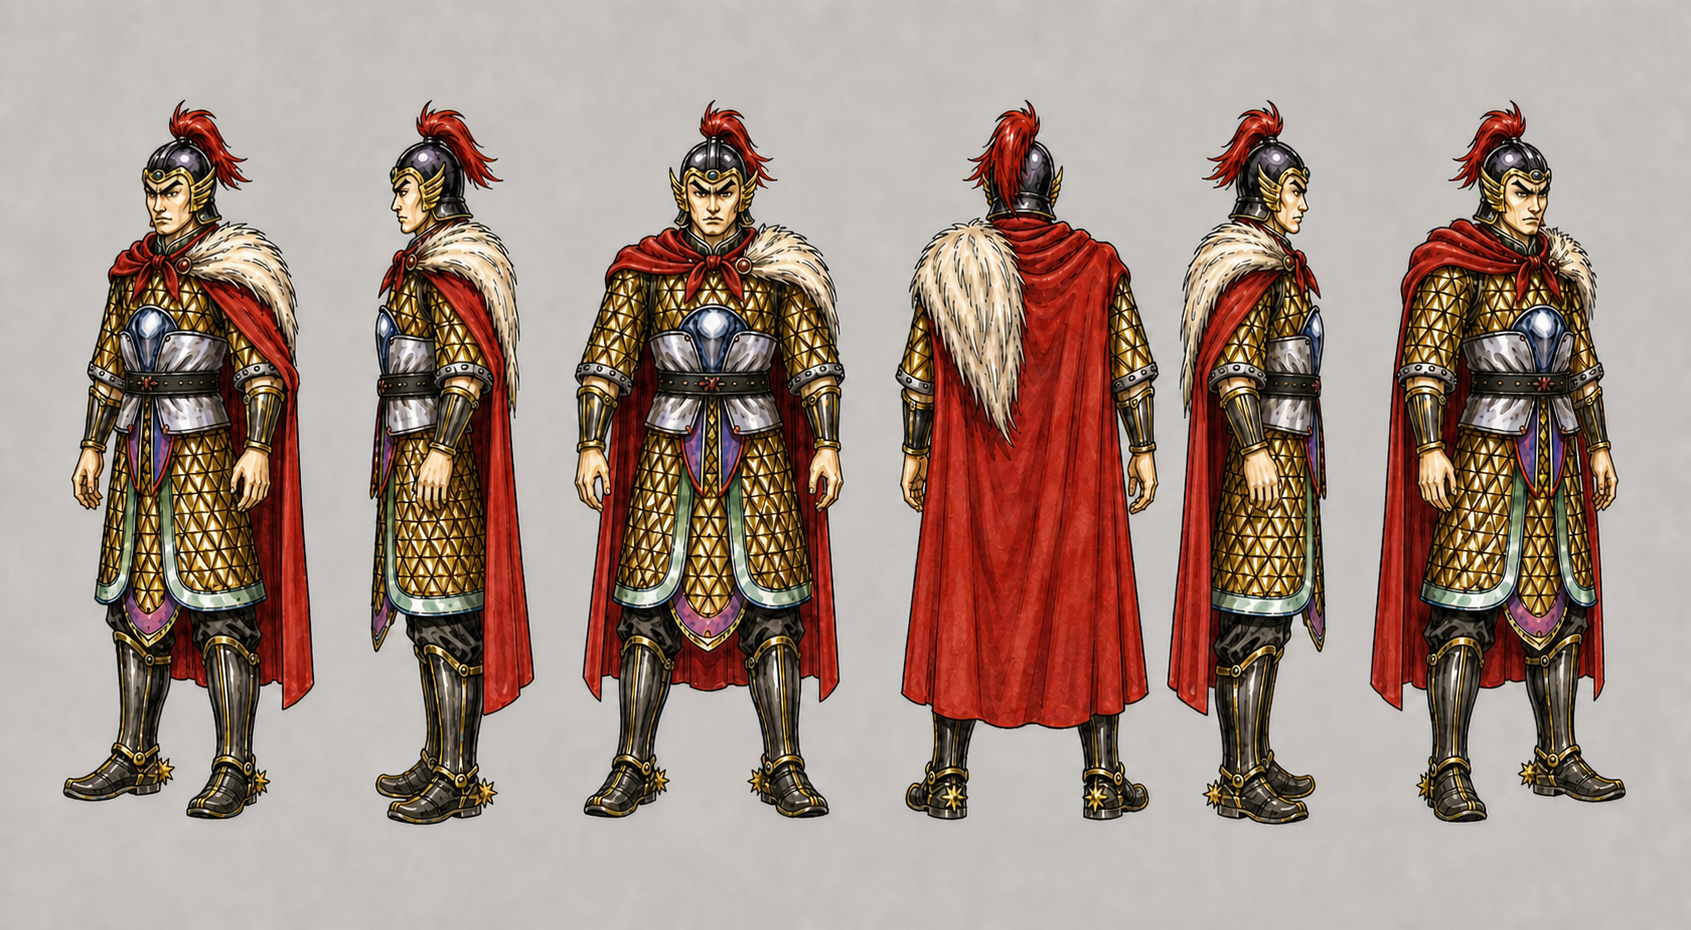
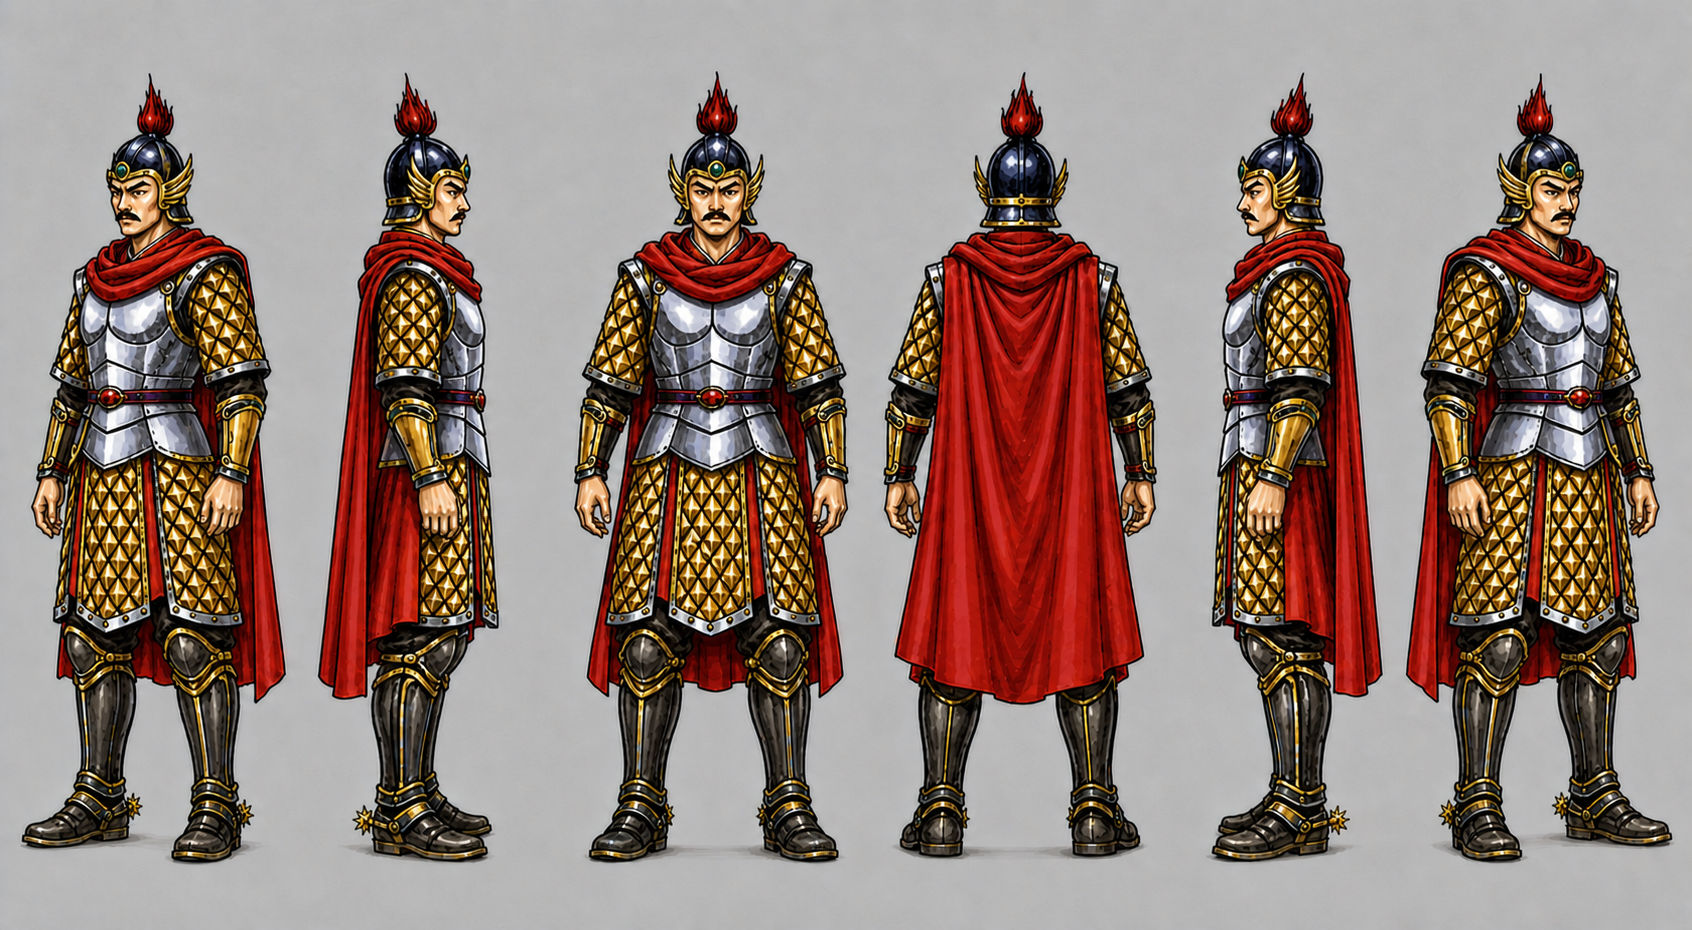
feat(model-sheets): 完成 042、044、108 角色试生产返修
重新依据根目录原卡校正角色证据边界与非对称锚点。\n\n补充返修提示、版本备份、复核记录并同步清单元数据。

diff --git a/character-model-sheets/characters/108/review-notes.md b/character-model-sheets/characters/108/review-notes.md
@@ -1,6 +1,6 @@
 # 108 新版六视图生产复核
 
-- 状态：`generated`，人物六视图与所需独立实体均已生成并通过全量复核；未标记为 `approved`。
+- 状态：`generated`，2026-08-21 试生产人物六视图已通过内部复核，等待用户确认；独立实体沿用既有版本，未标记为 `approved`。
 - 需交付：人物六视图；武器／标志道具、坐骑。
 
 ## 人物六视图
@@ -16,6 +16,13 @@
 - [x] 所需实体文件齐全；存在项包含完整轮廓、反面、薄侧、握持／连接和人物比例，不存在项未额外臆造。
 - [x] 存在的坐骑／宠物使用独立多视图，并包含人物比例与接触关系；不存在项按规格记录。
 - [x] 已纳入角色、武器与坐骑全量 QA 联系表复核，未见缺页、串角或跨视图结构漂移。
+
+## 2026-08-21 试生产返修记录
+
+- 改用仓库根目录 `108.png` 重新取证；人物表删除黑马、银灰马鬃、月亮与夜景，保留蓝袍、红披巾和右前腰金色编绳。
+- 金绳锚点固定在角色自身右前腰：左侧两列远侧隐藏，正面投影在画面左侧，纯背面因前腰连接被躯干遮挡，右面近侧部分可见，右侧 45°完整可见。
+- 第一次整表返修仍未修正正面投影，随后只重绘第三列的金绳区域并通过复核；其他五列保持不变。
+- 返修前主文件保留为 `character-turnaround-v2.png`；当前 `character-turnaround.png` 为试生产候选。
 
 ## 证据边界与版本
 

diff --git a/character-model-sheets/characters/044/review-notes.md b/character-model-sheets/characters/044/review-notes.md
@@ -1,6 +1,6 @@
 # 044 新版六视图生产复核
 
-- 状态：`generated`，人物六视图与所需独立实体均已生成并通过全量复核；未标记为 `approved`。
+- 状态：`generated`，2026-08-21 试生产人物六视图已通过内部复核，等待用户确认；未标记为 `approved`。
 - 需交付：人物六视图；无独立实体。
 
 ## 人物六视图
@@ -16,6 +16,13 @@
 - [x] 所需实体文件齐全；存在项包含完整轮廓、反面、薄侧、握持／连接和人物比例，不存在项未额外臆造。
 - [x] 存在的坐骑／宠物使用独立多视图，并包含人物比例与接触关系；不存在项按规格记录。
 - [x] 已纳入角色、武器与坐骑全量 QA 联系表复核，未见缺页、串角或跨视图结构漂移。
+
+## 2026-08-21 试生产返修记录
+
+- 改用仓库根目录 `044.png` 重新取证；周围绿叶状构件与紫色球体没有可见身体连接，因此未再臆造为腰挂或服饰。
+- 锁定角色自身左侧颧部紫色面纹、左前臂蓝圆护具与右前臂点状护具；六视图未发生镜像、换边或左右复制。
+- 第一版因纯左面没有维持锚点而拒收；第二版通过内部复核。
+- 返修前主文件保留为 `character-turnaround-v2.png`；当前 `character-turnaround.png` 为试生产候选。
 
 ## 证据边界与版本
 

diff --git a/character-model-sheets/characters/042/review-notes.md b/character-model-sheets/characters/042/review-notes.md
@@ -1,6 +1,6 @@
 # 042 新版六视图生产复核
 
-- 状态：`generated`，人物六视图与所需独立实体均已生成并通过全量复核；未标记为 `approved`。
+- 状态：`generated`，2026-08-21 试生产人物六视图已通过内部复核，等待用户确认；独立实体沿用既有版本，未标记为 `approved`。
 - 需交付：人物六视图；武器／标志道具、坐骑。
 
 ## 人物六视图
@@ -21,6 +21,9 @@
 
 - 人物六视图曾进行定点返修；旧版按递增版本号保留，当前主文件已通过复核。
 - 武器表主视图中被裁切的流星锤球头已补全，并留出完整安全边距。
+- 2026-08-21 改用仓库根目录 `042.png` 重新取证：确认人物身后的白色长毛属于战马鬃毛，不是人物肩披。
+- 新人物图删除白色毛皮肩披、紫色鞍部织物与全部武器／坐骑，补回细黑上髭，并把胸腹甲收敛为角面银色分段结构。
+- 返修前主文件保留为 `character-turnaround-v3.png`；当前 `character-turnaround.png` 为试生产候选。
 
 ## 证据边界与版本
 
